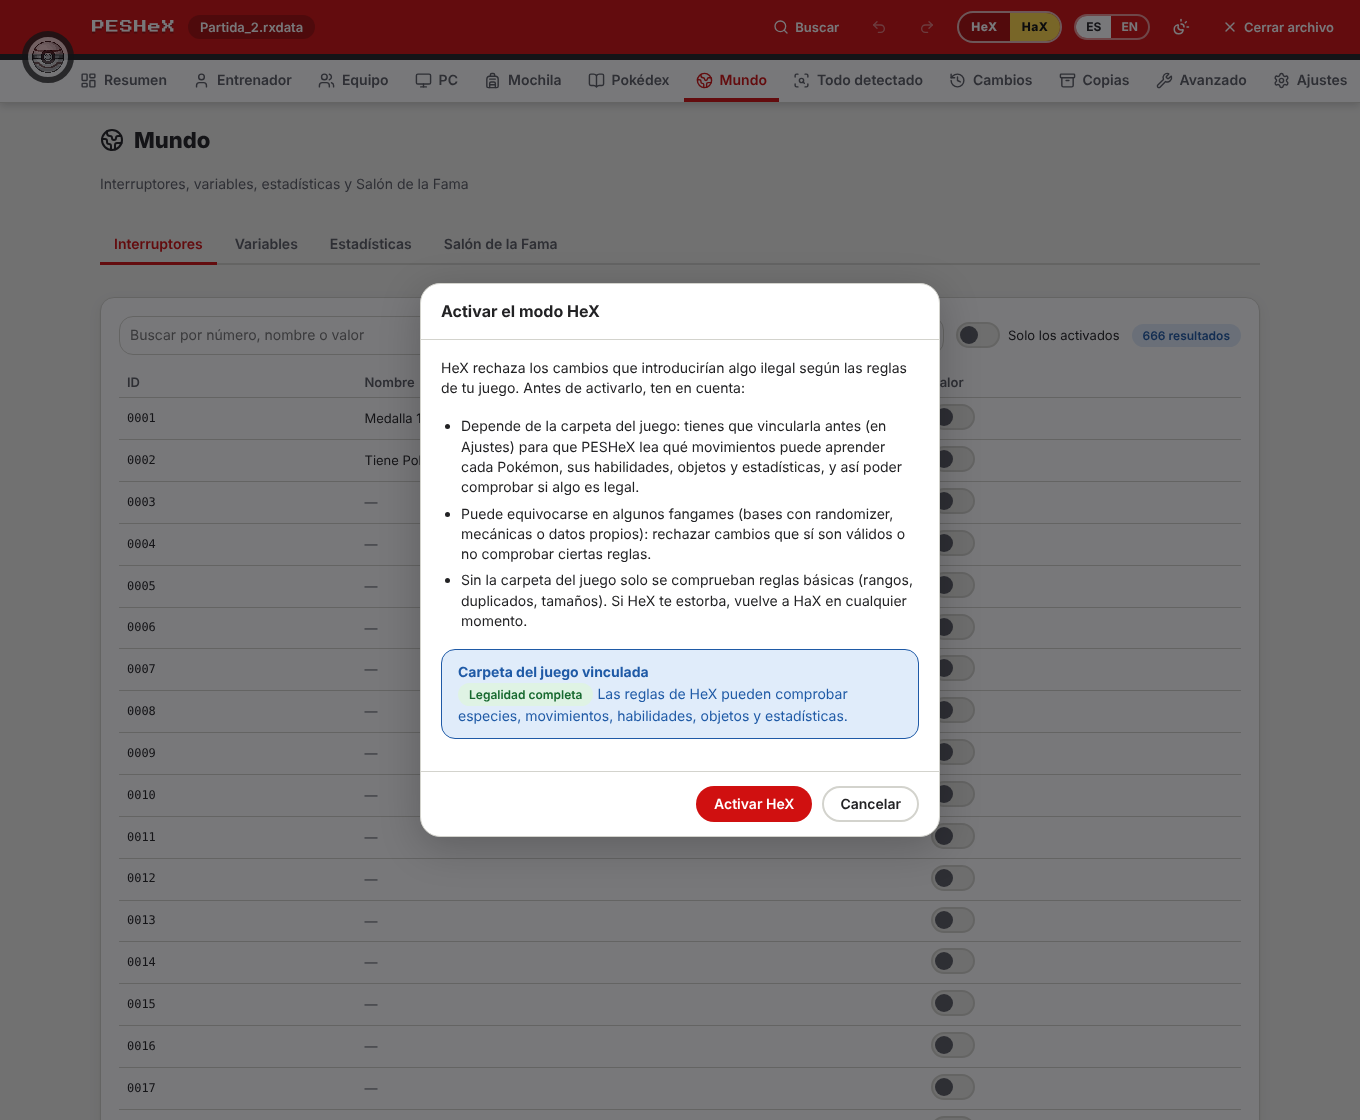
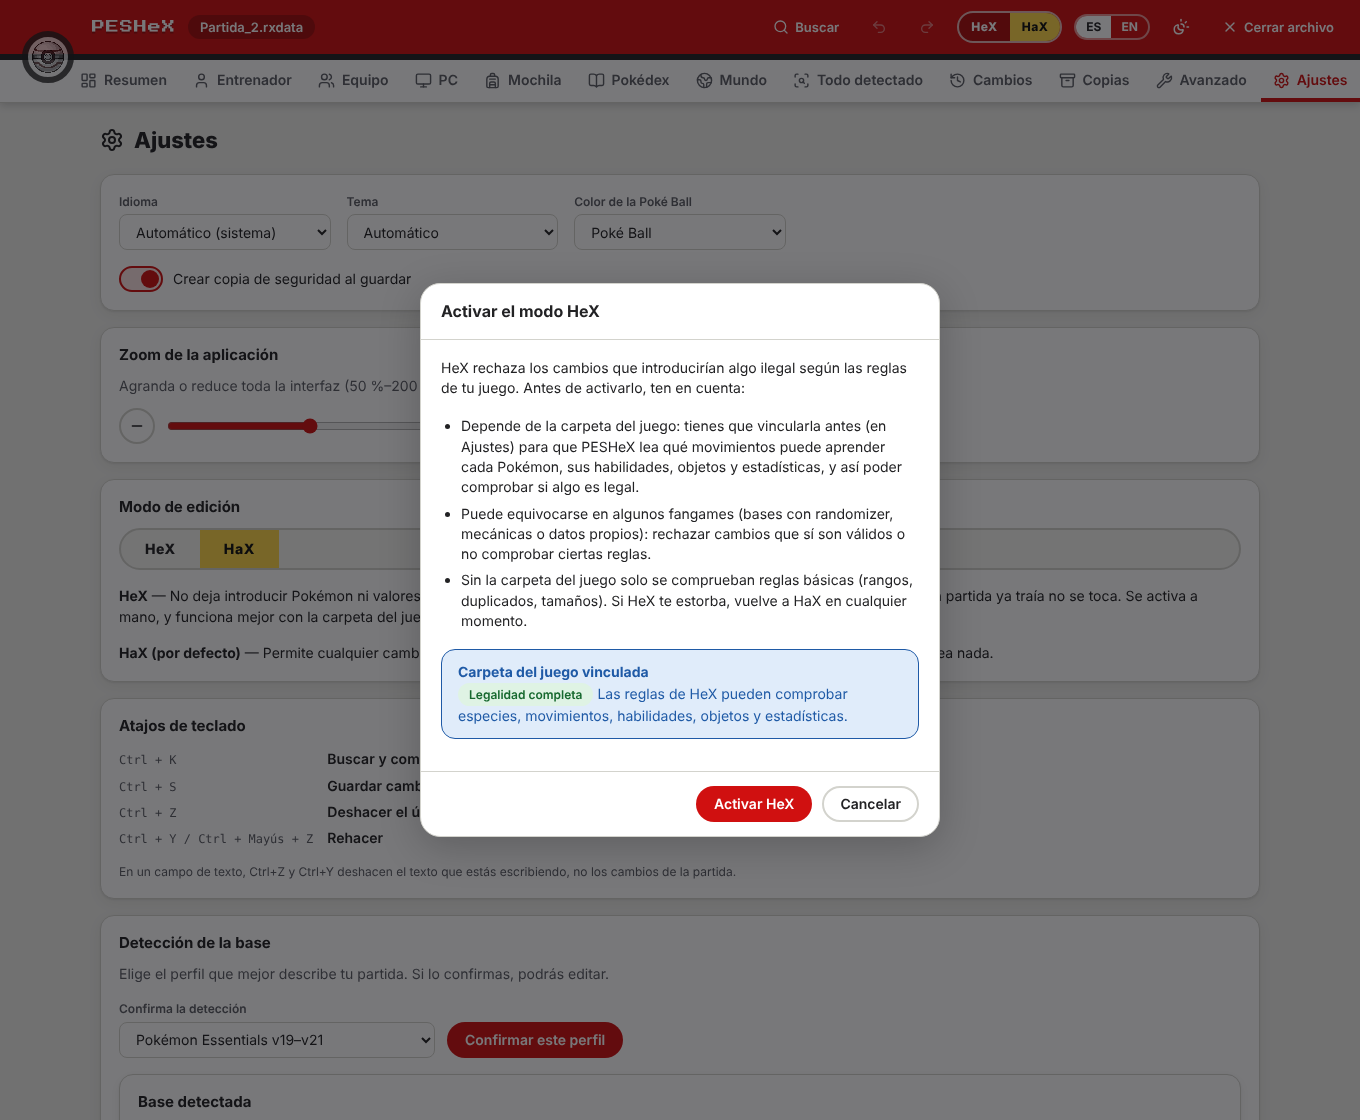
release: 1.0.0
[replace-release]

Zoom de la app en Ajustes (50–200 %, 100 % por defecto) y tarjeta «Legalidad»
del Resumen desplegable y visible solo con el modo HeX activo. Documentación,
LEEME, notas del release y capturas actualizadas.

diff --git a/README.md b/README.md
@@ -37,11 +37,14 @@ y con Windows 10 actualizado; si falta, PESHeX lo avisa y da el enlace).
   <img src="docs/screenshots/settings-game.png" alt="Carpeta del juego analizada: datos, límites, calibración y legalidad" width="96%" />
 </p>
 <p align="center">
+  <img src="docs/screenshots/settings-zoom.png" alt="Zoom de la aplicación en Ajustes (50 %–200 %, por defecto 100 %)" width="96%" />
+</p>
+<p align="center">
   <img src="docs/screenshots/pc.png" alt="El PC como en los juegos, con Quick Actions y preset de EV sugerido" width="48%" />
   <img src="docs/screenshots/overview.png" alt="Resumen con la legalidad comprobada contra tu juego" width="48%" />
 </p>
 <p align="center">
-  <img src="docs/screenshots/hex-warning.png" alt="Aviso al activar el modo HeX" width="48%" /> 
+  <img src="docs/screenshots/hex-warning.png" alt="Aviso al activar el modo HeX" width="48%" />
   <img src="docs/screenshots/world.png" alt="Interruptores y variables con nombre" width="48%" />
 </p>
 <p align="center">
@@ -52,15 +55,16 @@ y con Windows 10 actualizado; si falta, PESHeX lo avisa y da el enlace).
   <img src="docs/screenshots/diff.png" alt="Comparación entre una copia y la partida actual" width="48%" />
 </p>
 
-<sub>Capturas con una carpeta de juego **sintética** de pruebas, ya vinculada y analizada
-(círculos de colores en lugar de sprites): PESHeX no incluye gráficos oficiales; usa los de tu
-juego. Se regeneran con `npm run docs:shots`.</sub>
+<sub>Las capturas de PC, Resumen, Pokédex, búsqueda y carpeta del juego usan una partida y la carpeta de
+juego del autor (los sprites son los de ese juego); las del zoom, el aviso de HeX, Mundo y Cambios, una
+carpeta **sintética** de pruebas (círculos de colores en lugar de sprites). PESHeX no incluye gráficos
+oficiales: usa los de tu juego. Las sintéticas se regeneran con `npm run docs:shots`.</sub>
 
 ## Qué hace
 
 | Pestaña | Contenido |
 |---|---|
-| **Resumen** | Entrenador, dinero, medallas, tiempo de juego, equipo, cifras (PC, Pokédex…), legalidad, base detectada y cobertura de clasificación |
+| **Resumen** | Entrenador, dinero, medallas, tiempo de juego, equipo, cifras (PC, Pokédex…), base detectada y cobertura de clasificación; con el modo **HeX** activo, además, una tarjeta de **legalidad desplegable** |
 | **Entrenador** | Nombre, dinero, fichas, puntos de combate, hollín, medallas y datos extra de la base |
 | **Equipo** y **PC** | Los Pokémon **como en las cajas de los juegos**: caja de 6×5 con el fondo y los iconos de *tu* juego, bandeja de equipo y panel de datos. Arrastra (o usa la barra espaciadora) para mover, intercambiar o pasar Pokémon entre cajas y equipo; editor lateral con **IV/EV**, movimientos, objeto, naturaleza, habilidad… |
 | **Mochila** | Bolsillos, búsqueda, cantidades, añadir/quitar objetos, favoritos |
@@ -70,7 +74,7 @@ juego. Se regeneran con `npm run docs:shots`.</sub>
 | **Cambios** | Cambios sin guardar, con deshacer/rehacer |
 | **Copias** | Las copias `.bak` que se crean al guardar: **comparar** (entrenador, mochila, Pokémon, Pokédex, mundo) con la partida actual o con otro archivo, y **restaurar** |
 | **Avanzado** | Todos los campos crudos del archivo (el explorador original), con filtro por ruta/tipo |
-| **Ajustes** | Idioma (auto/ES/EN), tema, color de Poké Ball, copia de seguridad, carpeta del juego, modo HeX/HaX y detección de la base |
+| **Ajustes** | Idioma (auto/ES/EN), tema, color de Poké Ball, copia de seguridad, **zoom de la aplicación** (50 %–200 %, por defecto 100 %), carpeta del juego, modo HaX/HeX y detección de la base |
 
 Además: **búsqueda global y comandos** (`Ctrl+K`), `Ctrl+S` / `Ctrl+Z` / `Ctrl+Y`,
 **acciones rápidas** (curar, IV al máximo, recalcular estadísticas, subir de nivel

diff --git a/.github/release-notes.md b/.github/release-notes.md
@@ -5,6 +5,7 @@ Editor visual de partidas guardadas (`.rxdata`) de **Pokémon Essentials** y fan
 ### Novedades de la 1.0.0
 - **PC como en los juegos**: cajas 6×5 con los sprites de *tu* juego (Graphics), equipo, panel de datos y arrastrar y soltar (ratón o teclado).
 - **Modos HaX y HeX**: HaX (por defecto) permite cualquier cambio; HeX, que se activa a mano con un aviso, no deja introducir Pokémon ni valores ilegales para tu juego y depende de vincular antes la carpeta del juego (puede fallar en algunos fangames).
+- **Zoom de la aplicación** en Ajustes (50 %–200 %, por defecto 100 %) y, con HeX activo, una tarjeta de **legalidad desplegable** en el Resumen.
 - **Carpeta del juego**: nombres reales, selectores con búsqueda, límites leídos de los scripts y legalidad según tus datos.
 - **Pokédex, mundo y copias**: marca vistas/capturadas, edita interruptores y variables con sus nombres, compara y restaura copias `.bak`.
 - **Búsqueda global (`Ctrl+K`)**, atajos (`Ctrl+S`, `Ctrl+Z`, `Ctrl+Y`), acciones rápidas (curar, IV al máximo, recalcular estadísticas y siete presets de EV, con el sugerido según los stats más altos del Pokémon) y **clonar / importar / exportar** Pokémon (texto de Pokémon Showdown y JSON).
